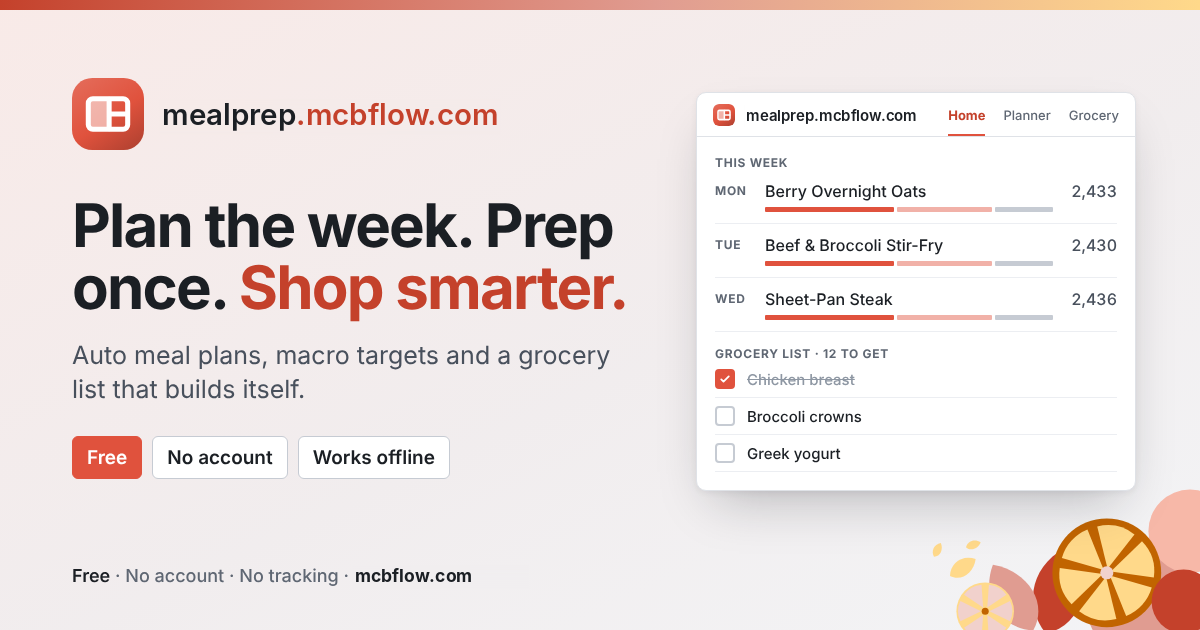
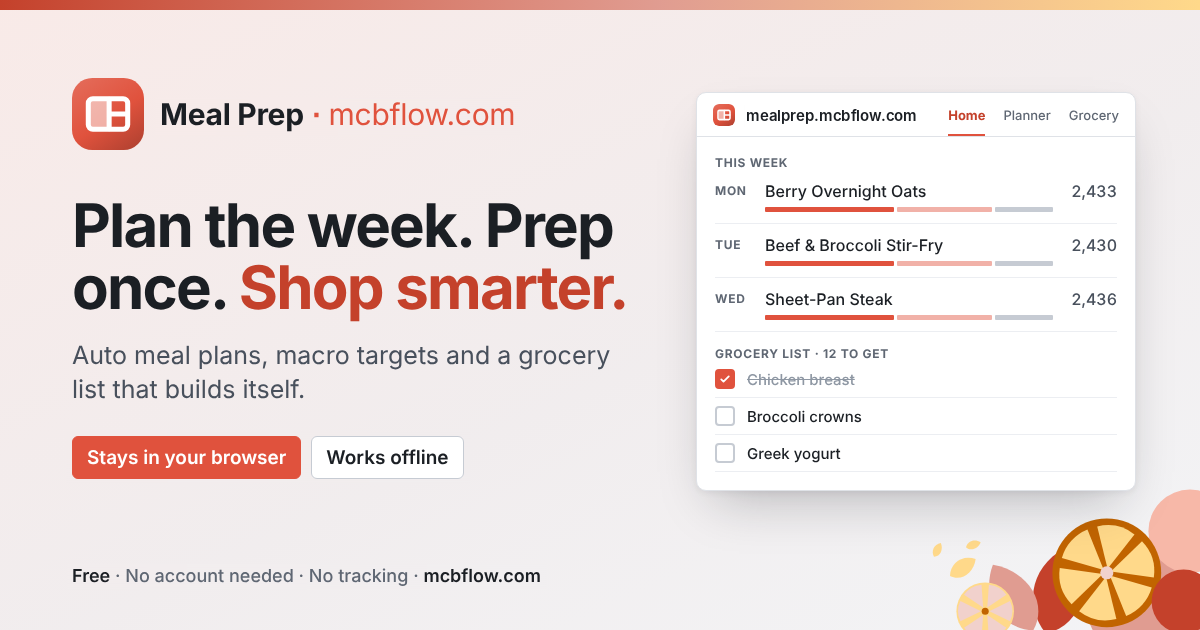
Add files via upload

Changed region(s): [[0.0617, 0.6937, 0.37, 0.7841], [0.1233, 0.1508, 0.4317, 0.2111], [0.185, 0.9048, 0.4625, 0.9349]]

diff --git a/index.html b/index.html
@@ -16,18 +16,18 @@
 <meta property="og:type" content="website">
 <meta property="og:site_name" content="mealprep.mcbflow.com">
 <meta property="og:title" content="Meal Prep: plan the week, prep once, shop smarter">
-<meta property="og:description" content="Auto meal planning, macro targets and a grocery list that builds itself. Free, no account.">
+<meta property="og:description" content="Auto meal planning, macro targets and a grocery list that builds itself. Free, no account needed.">
 <meta property="og:url" content="https://mealprep.mcbflow.com/">
 <meta property="og:image" content="https://mealprep.mcbflow.com/og-image.png?v=3">
 <meta property="og:image:width" content="1200">
 <meta property="og:image:height" content="630">
-<meta property="og:image:alt" content="mealprep.mcbflow.com: a weekly meal plan and grocery list">
+<meta property="og:image:alt" content="Meal Prep: A weekly meal plan and grocery list">
 <meta name="twitter:card" content="summary_large_image">
 <meta name="twitter:title" content="Meal Prep: plan the week, prep once, shop smarter">
-<meta name="twitter:description" content="Auto meal planning, macro targets and a grocery list that builds itself. Free, no account.">
+<meta name="twitter:description" content="Auto meal planning, macro targets and a grocery list that builds itself. Free, no account needed.">
 <meta name="twitter:image" content="https://mealprep.mcbflow.com/og-image.png?v=3">
-<meta name="twitter:image:alt" content="mealprep.mcbflow.com: a weekly meal plan and grocery list">
-<script type="application/ld+json">{"@context":"https://schema.org","@type":"WebApplication","name":"mealprep.mcbflow.com","alternateName":"Meal Prep","url":"https://mealprep.mcbflow.com/","description":"Plan your week of meals, hit your protein, carb and fat targets, and shop from a list sorted by store section. Free, no account, and your data stays in your browser.","applicationCategory":"LifestyleApplication","operatingSystem":"Any (runs in a web browser)","browserRequirements":"Requires JavaScript","isAccessibleForFree":true,"offers":{"@type":"Offer","price":"0","priceCurrency":"USD"},"author":{"@type":"Person","name":"Matthew Broyer","url":"https://matthewbroyer.com/"},"image":"https://mealprep.mcbflow.com/og-image.png"}</script>
+<meta name="twitter:image:alt" content="Meal Prep: A weekly meal plan and grocery list">
+<script type="application/ld+json">{"@context":"https://schema.org","@type":"WebApplication","name":"mealprep.mcbflow.com","alternateName":"Meal Prep","url":"https://mealprep.mcbflow.com/","description":"Plan your week of meals, hit your protein, carb and fat targets, and shop from a list sorted by store section. Free, no account needed, and your data stays in your browser.","applicationCategory":"LifestyleApplication","operatingSystem":"Any (runs in a web browser)","browserRequirements":"Requires JavaScript","isAccessibleForFree":true,"offers":{"@type":"Offer","price":"0","priceCurrency":"USD"},"author":{"@type":"Person","name":"Matthew Broyer","url":"https://matthewbroyer.com/"},"image":"https://mealprep.mcbflow.com/og-image.png"}</script>
 <link rel="canonical" href="https://mealprep.mcbflow.com/">
 <link rel="manifest" href="manifest.json">
 <link rel="icon" href="favicon.ico?v=3" sizes="48x48">

diff --git a/404.html b/404.html
@@ -26,8 +26,8 @@ a:focus-visible{outline:2px solid var(--accent);outline-offset:2px;border-radius
 header{width:min(720px,100% - 32px);margin:0 auto;padding:20px 0 0}
 .brand{display:inline-flex;align-items:center;gap:10px;color:var(--ink);text-decoration:none;font-weight:650;font-size:16px}
 .brand svg{width:34px;height:34px;flex:none;border-radius:8px}
-.brand i{font-style:normal;color:var(--accent);font-weight:500}
-.brand .sep{display:inline-block;margin:0 .32em 0 .34em;color:var(--muted,#6b7280);font-weight:400}
+.brand i{font-style:normal;color:var(--accent);font-weight:400}
+.brand .sep{display:inline-block;margin:0 .32em 0 .34em;color:var(--accent);font-weight:700}
 main{flex:1;width:min(720px,100% - 32px);margin:18px auto 24px}
 .card{position:relative;overflow:hidden;background:var(--surface);border:1px solid var(--border);border-radius:8px;
  box-shadow:0 1px 2px rgba(20,24,31,.06),0 12px 32px -18px rgba(20,24,31,.28);padding:28px 28px 0}
